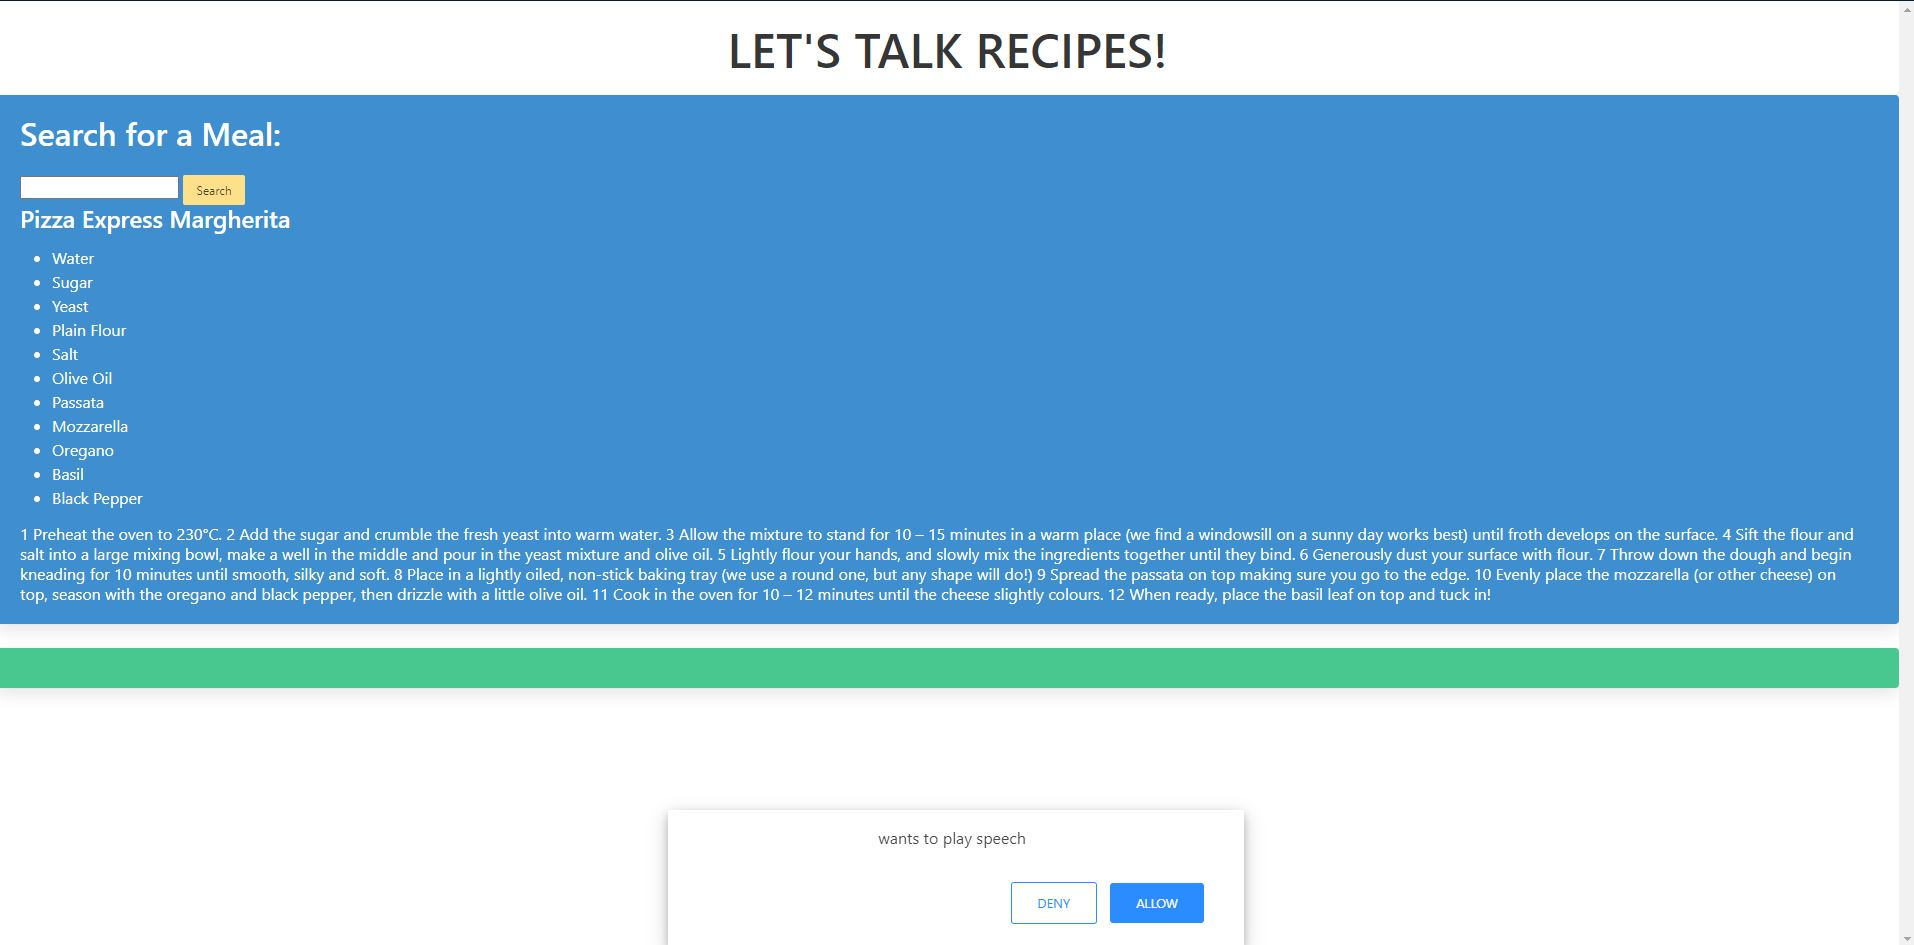
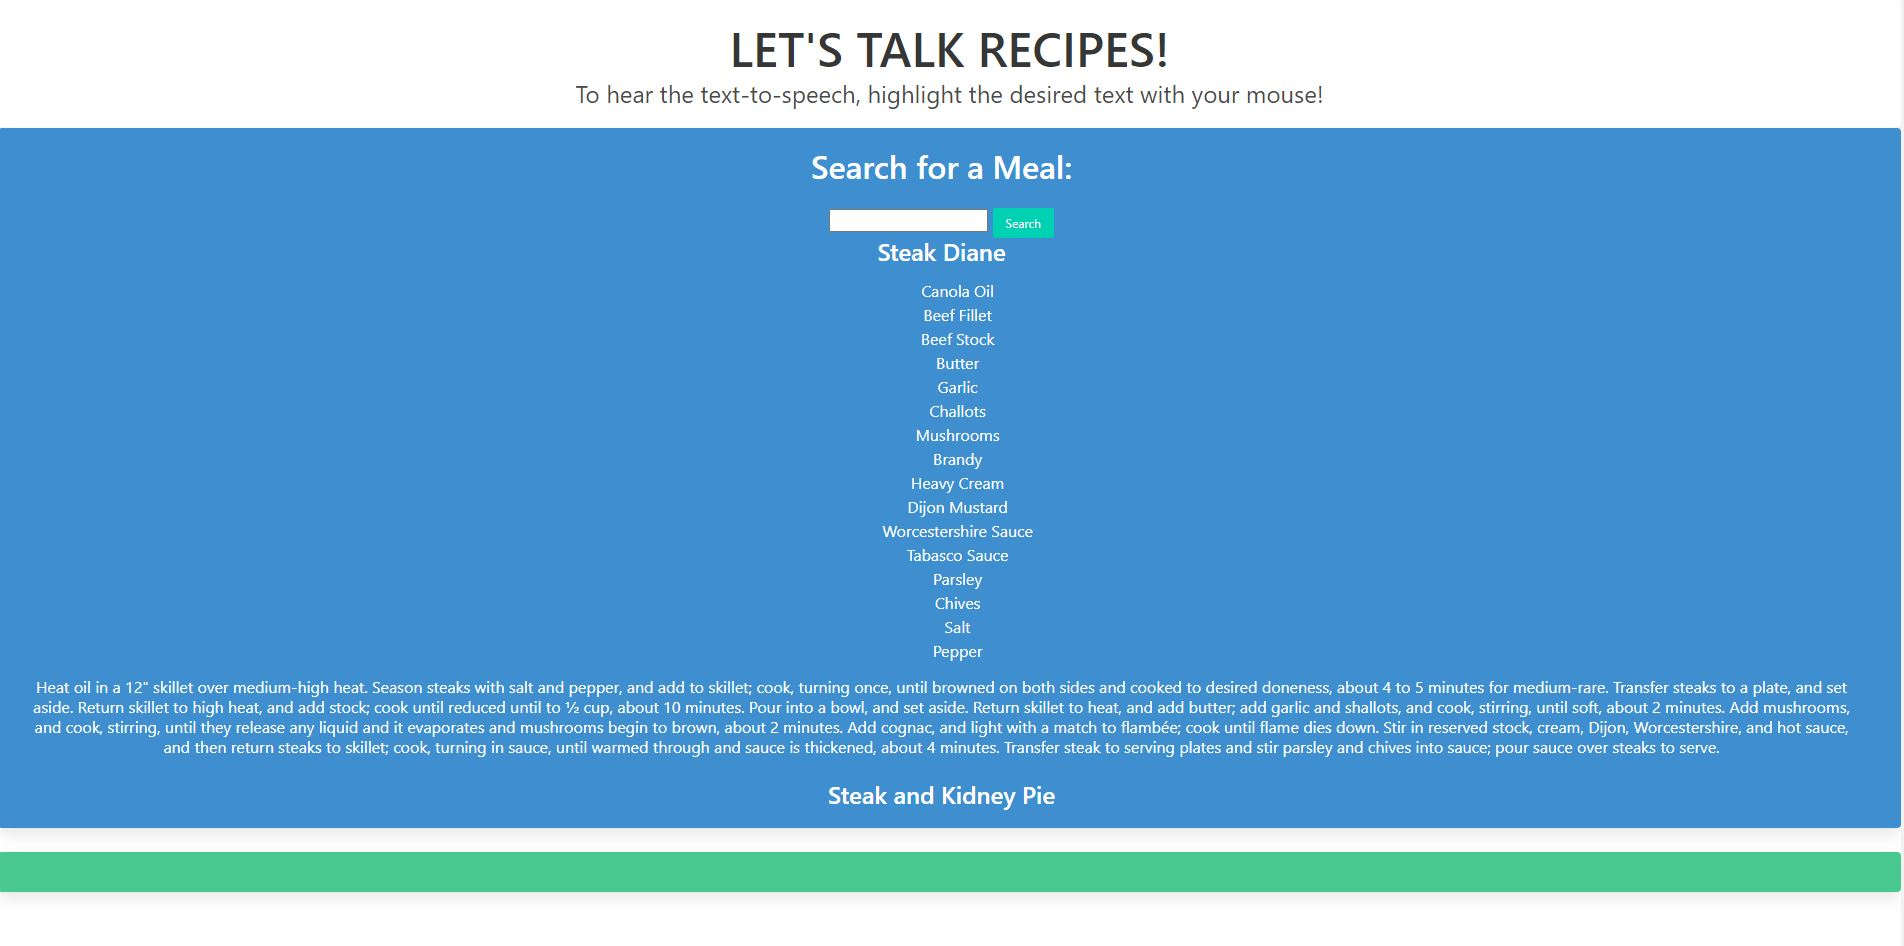
fixed readme screenshot to reflect current application

diff --git a/README.md b/README.md
@@ -20,4 +20,4 @@ https://kaiafay.github.io/group-project/
 * TheMeal DB API - Kaia Scheirman
 * ResponiveVoice API - Jack Ford
 
-![ltm sc](https://user-images.githubusercontent.com/98244224/158924516-90cbcb12-4ed2-4070-8f1a-316ea78e19eb.png)
+<img src="./assets/screenshots/group-project.JPG">
